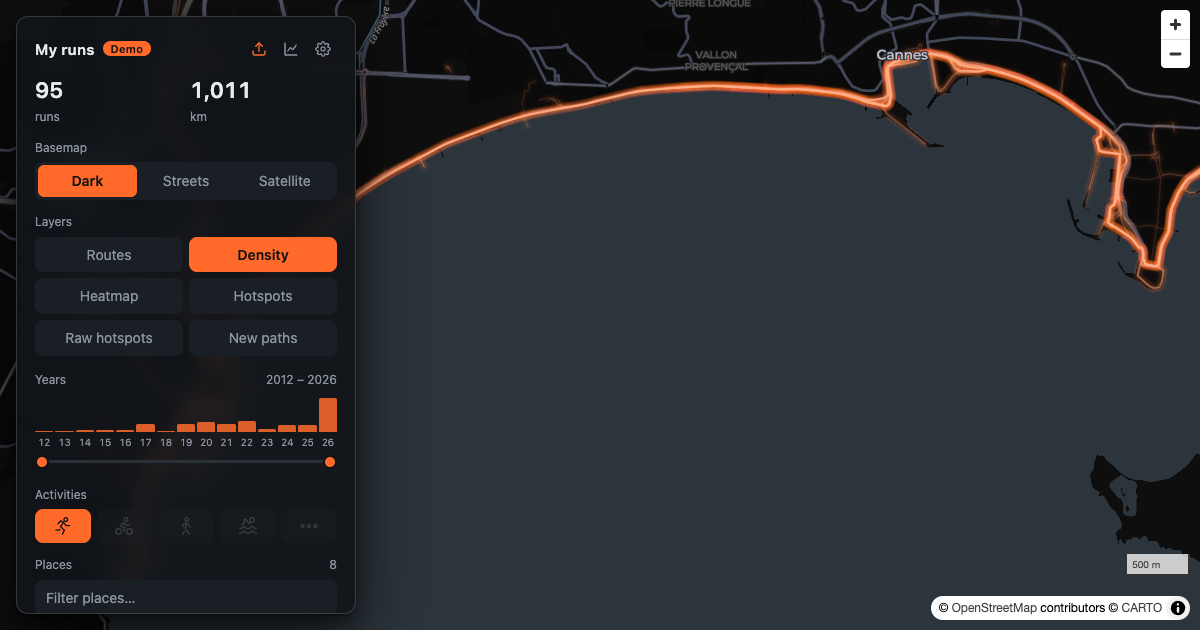
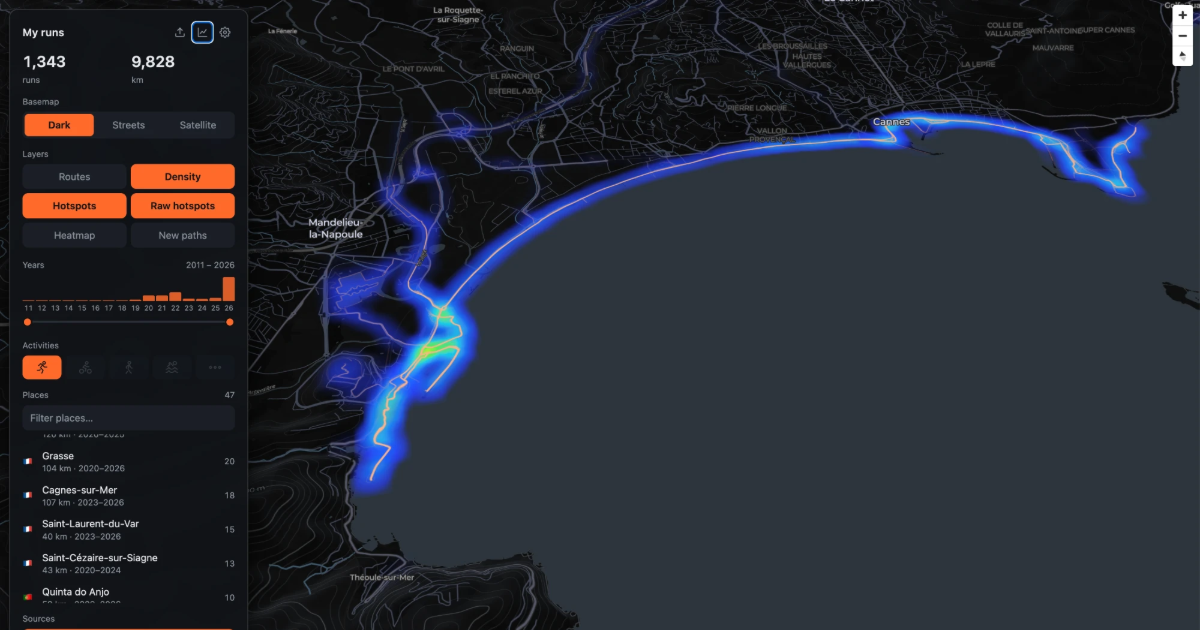
Fix 3D: style changes showed one step late; new preview image
MapLibre 6 caches the layers draped on the 3D terrain and didn't redraw them after a paint or filter change; the cache is now dropped, and paint fades are off so it never keeps a mid-fade frame.

diff --git a/src/components/MapView.svelte b/src/components/MapView.svelte
@@ -351,7 +351,12 @@
 
   function setBase(base) {
     const b = BASES[base];
-    map.setStyle(b.style, { diff: false, ...(b.transform && { transformStyle: b.transform }) });
+    // No paint fade: settings apply at once, and the 3D draped cache (see redraw3d) never keeps a mid-fade frame
+    const transformStyle = (prev, next) => ({
+      ...(b.transform ? b.transform(prev, next) : next),
+      transition: { duration: 0, delay: 0 },
+    });
+    map.setStyle(b.style, { diff: false, transformStyle });
   }
 
   // New dataset: update the sources (or create the layers) and show the main area
@@ -370,6 +375,14 @@
     } else if (styleReady) addOverlay();
     if (app.area) showArea(app.area, first && s.globe);
   });
+
+  // In 3D, MapLibre 6 caches what is draped on the terrain (lines, the veil…) and only redraws it when
+  // source data or the visible layers change, not after a paint or filter change: drop that cache.
+  // (Internal API, hence the guards: without it the map just updates one change late in 3D.)
+  function redraw3d() {
+    for (const tile of map.terrain?.tileManager?.getRenderableTiles?.() || []) tile.releaseRTT?.(map.painter);
+    map.triggerRepaint();
+  }
 
   // Filters, visibility, opacity, colours
   $effect(() => {
@@ -409,6 +422,7 @@
       map.setPaintProperty(id, 'line-color', trackColor());
     map.setPaintProperty('hl-arrows', 'icon-color', darkTrack());
     map.setPaintProperty('glow', 'line-color', glowColor());
+    redraw3d();
   });
 
   // Opening on the globe: start from the whole Earth and fly down to the main area
@@ -462,6 +476,7 @@
     map.setPaintProperty('heat', 'heatmap-intensity', heatIntensity());
     map.setPaintProperty('soft', 'heatmap-intensity', softIntensity());
     map.setPaintProperty('raw', 'heatmap-intensity', softIntensity());
+    redraw3d();
   });
 
   // Highlighted run: outlined, and the map zooms to it (only when it changes, not on a basemap switch)
